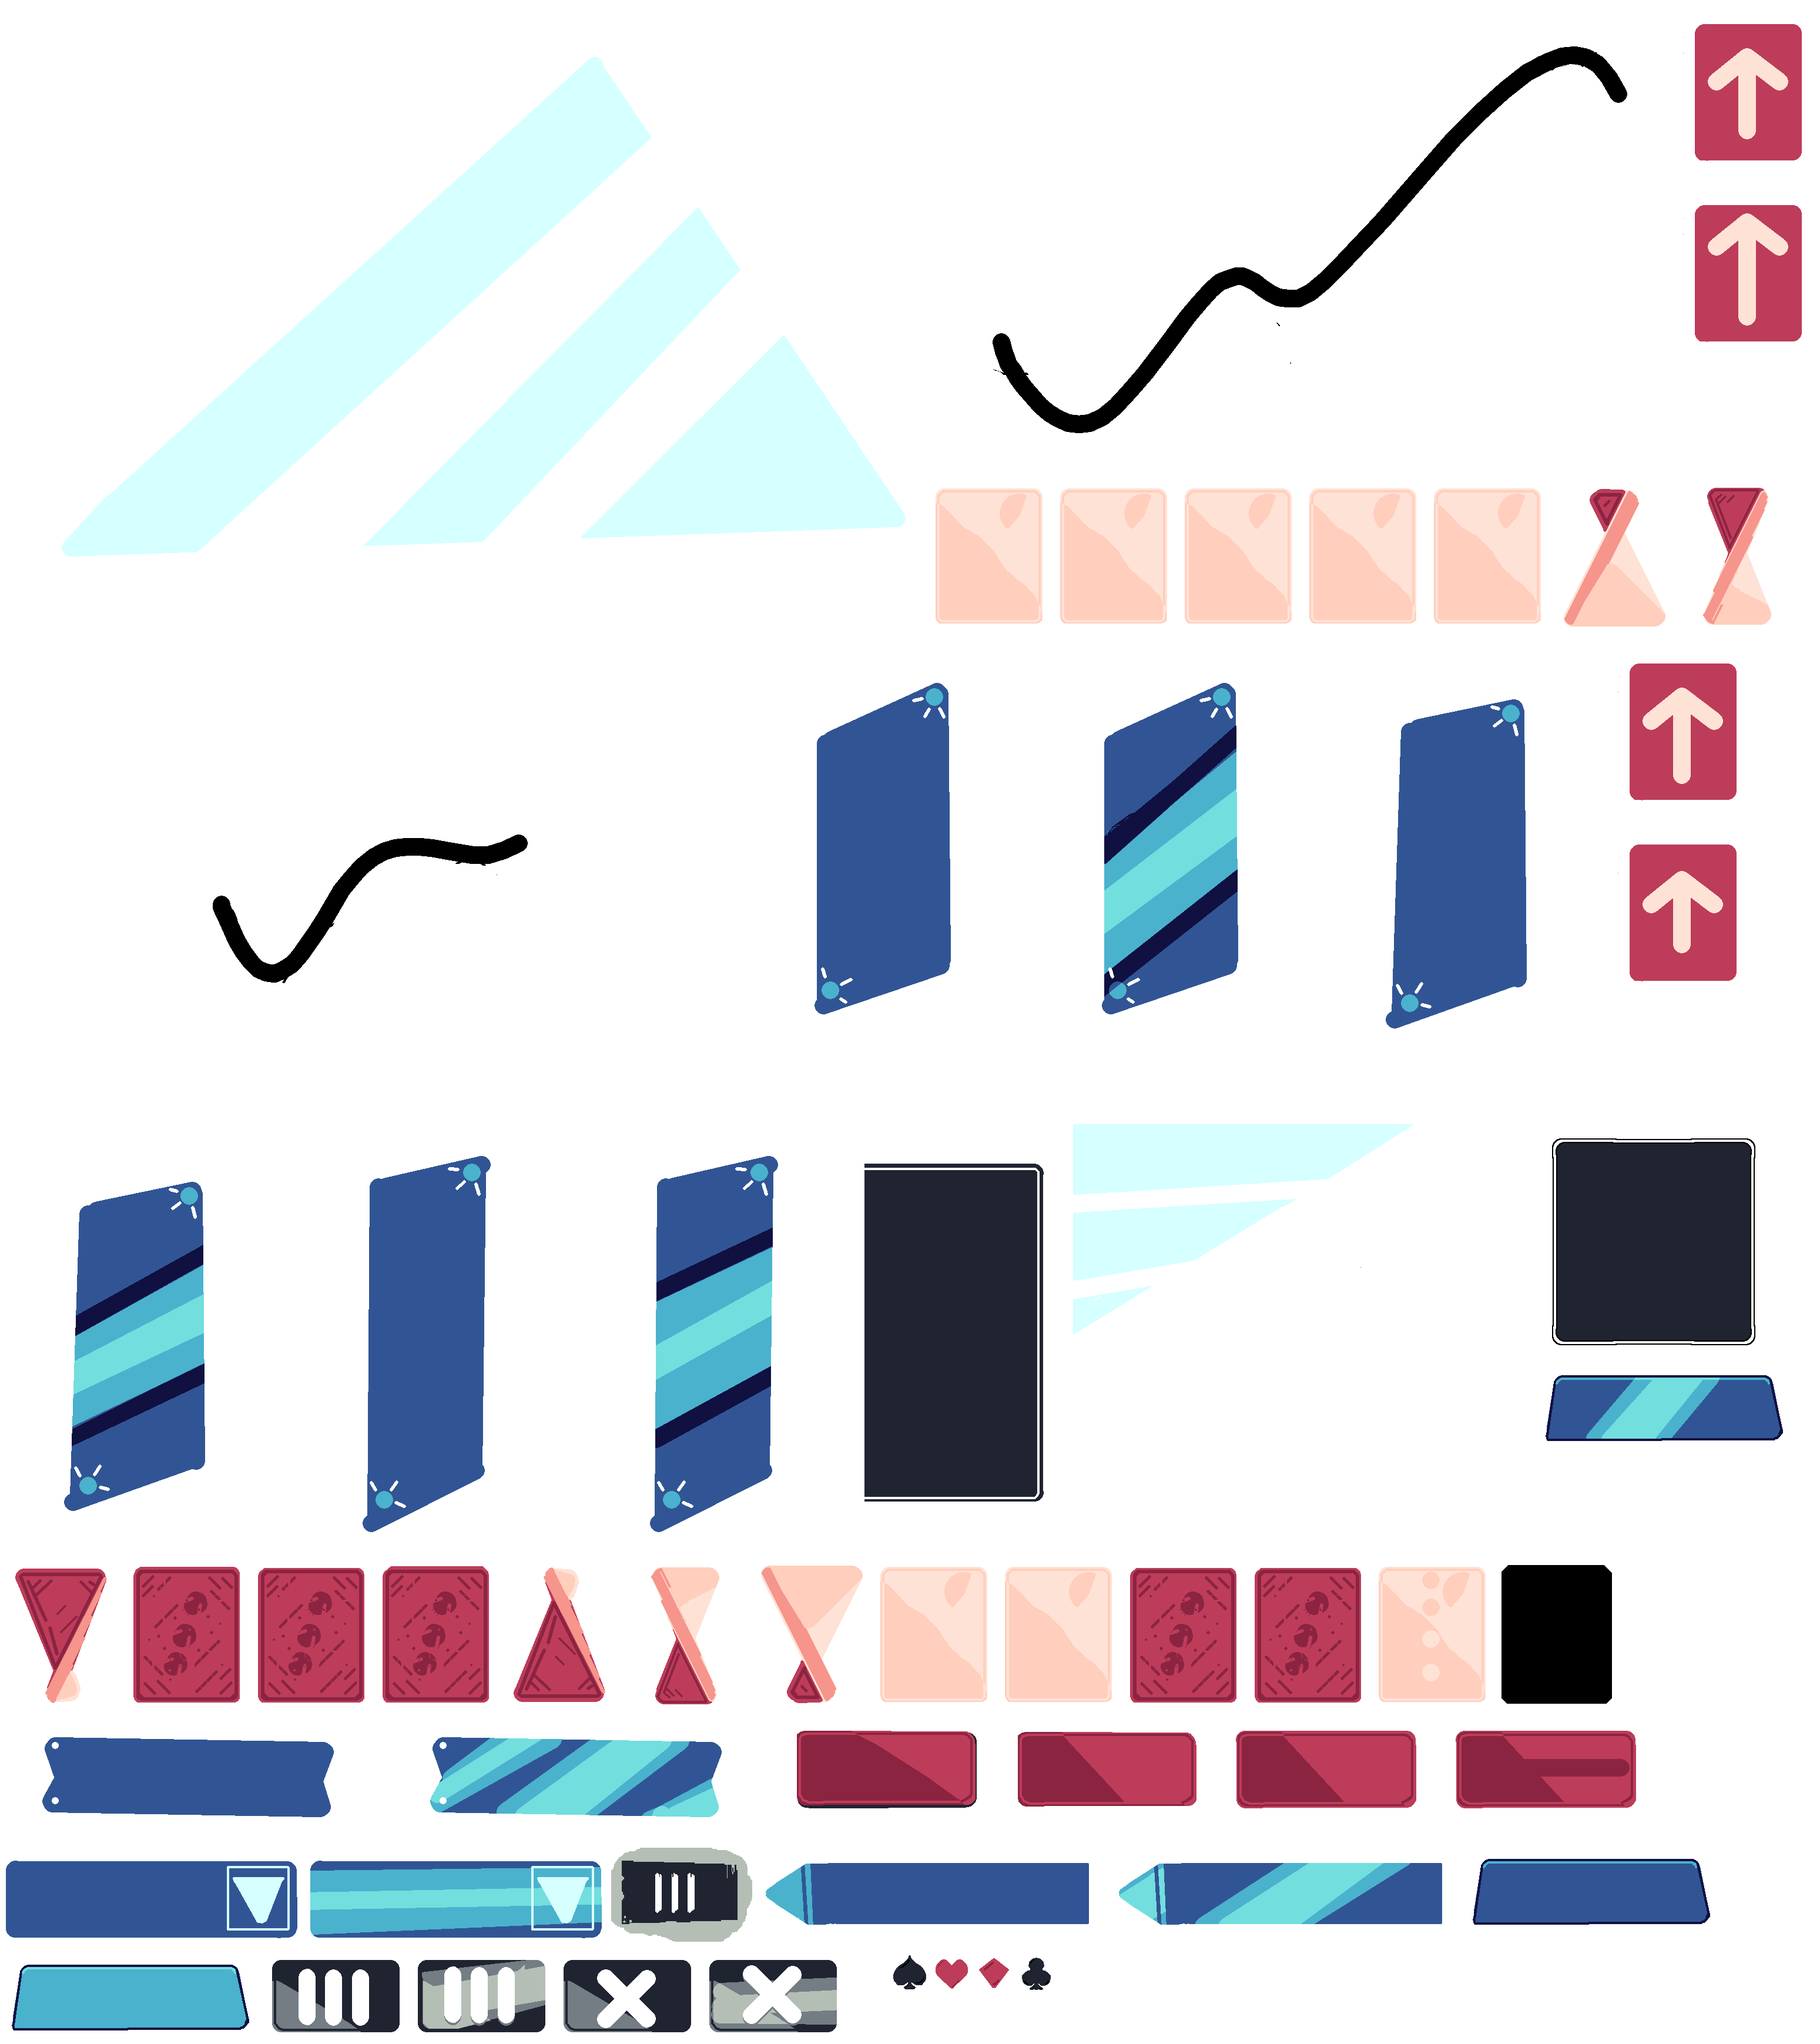
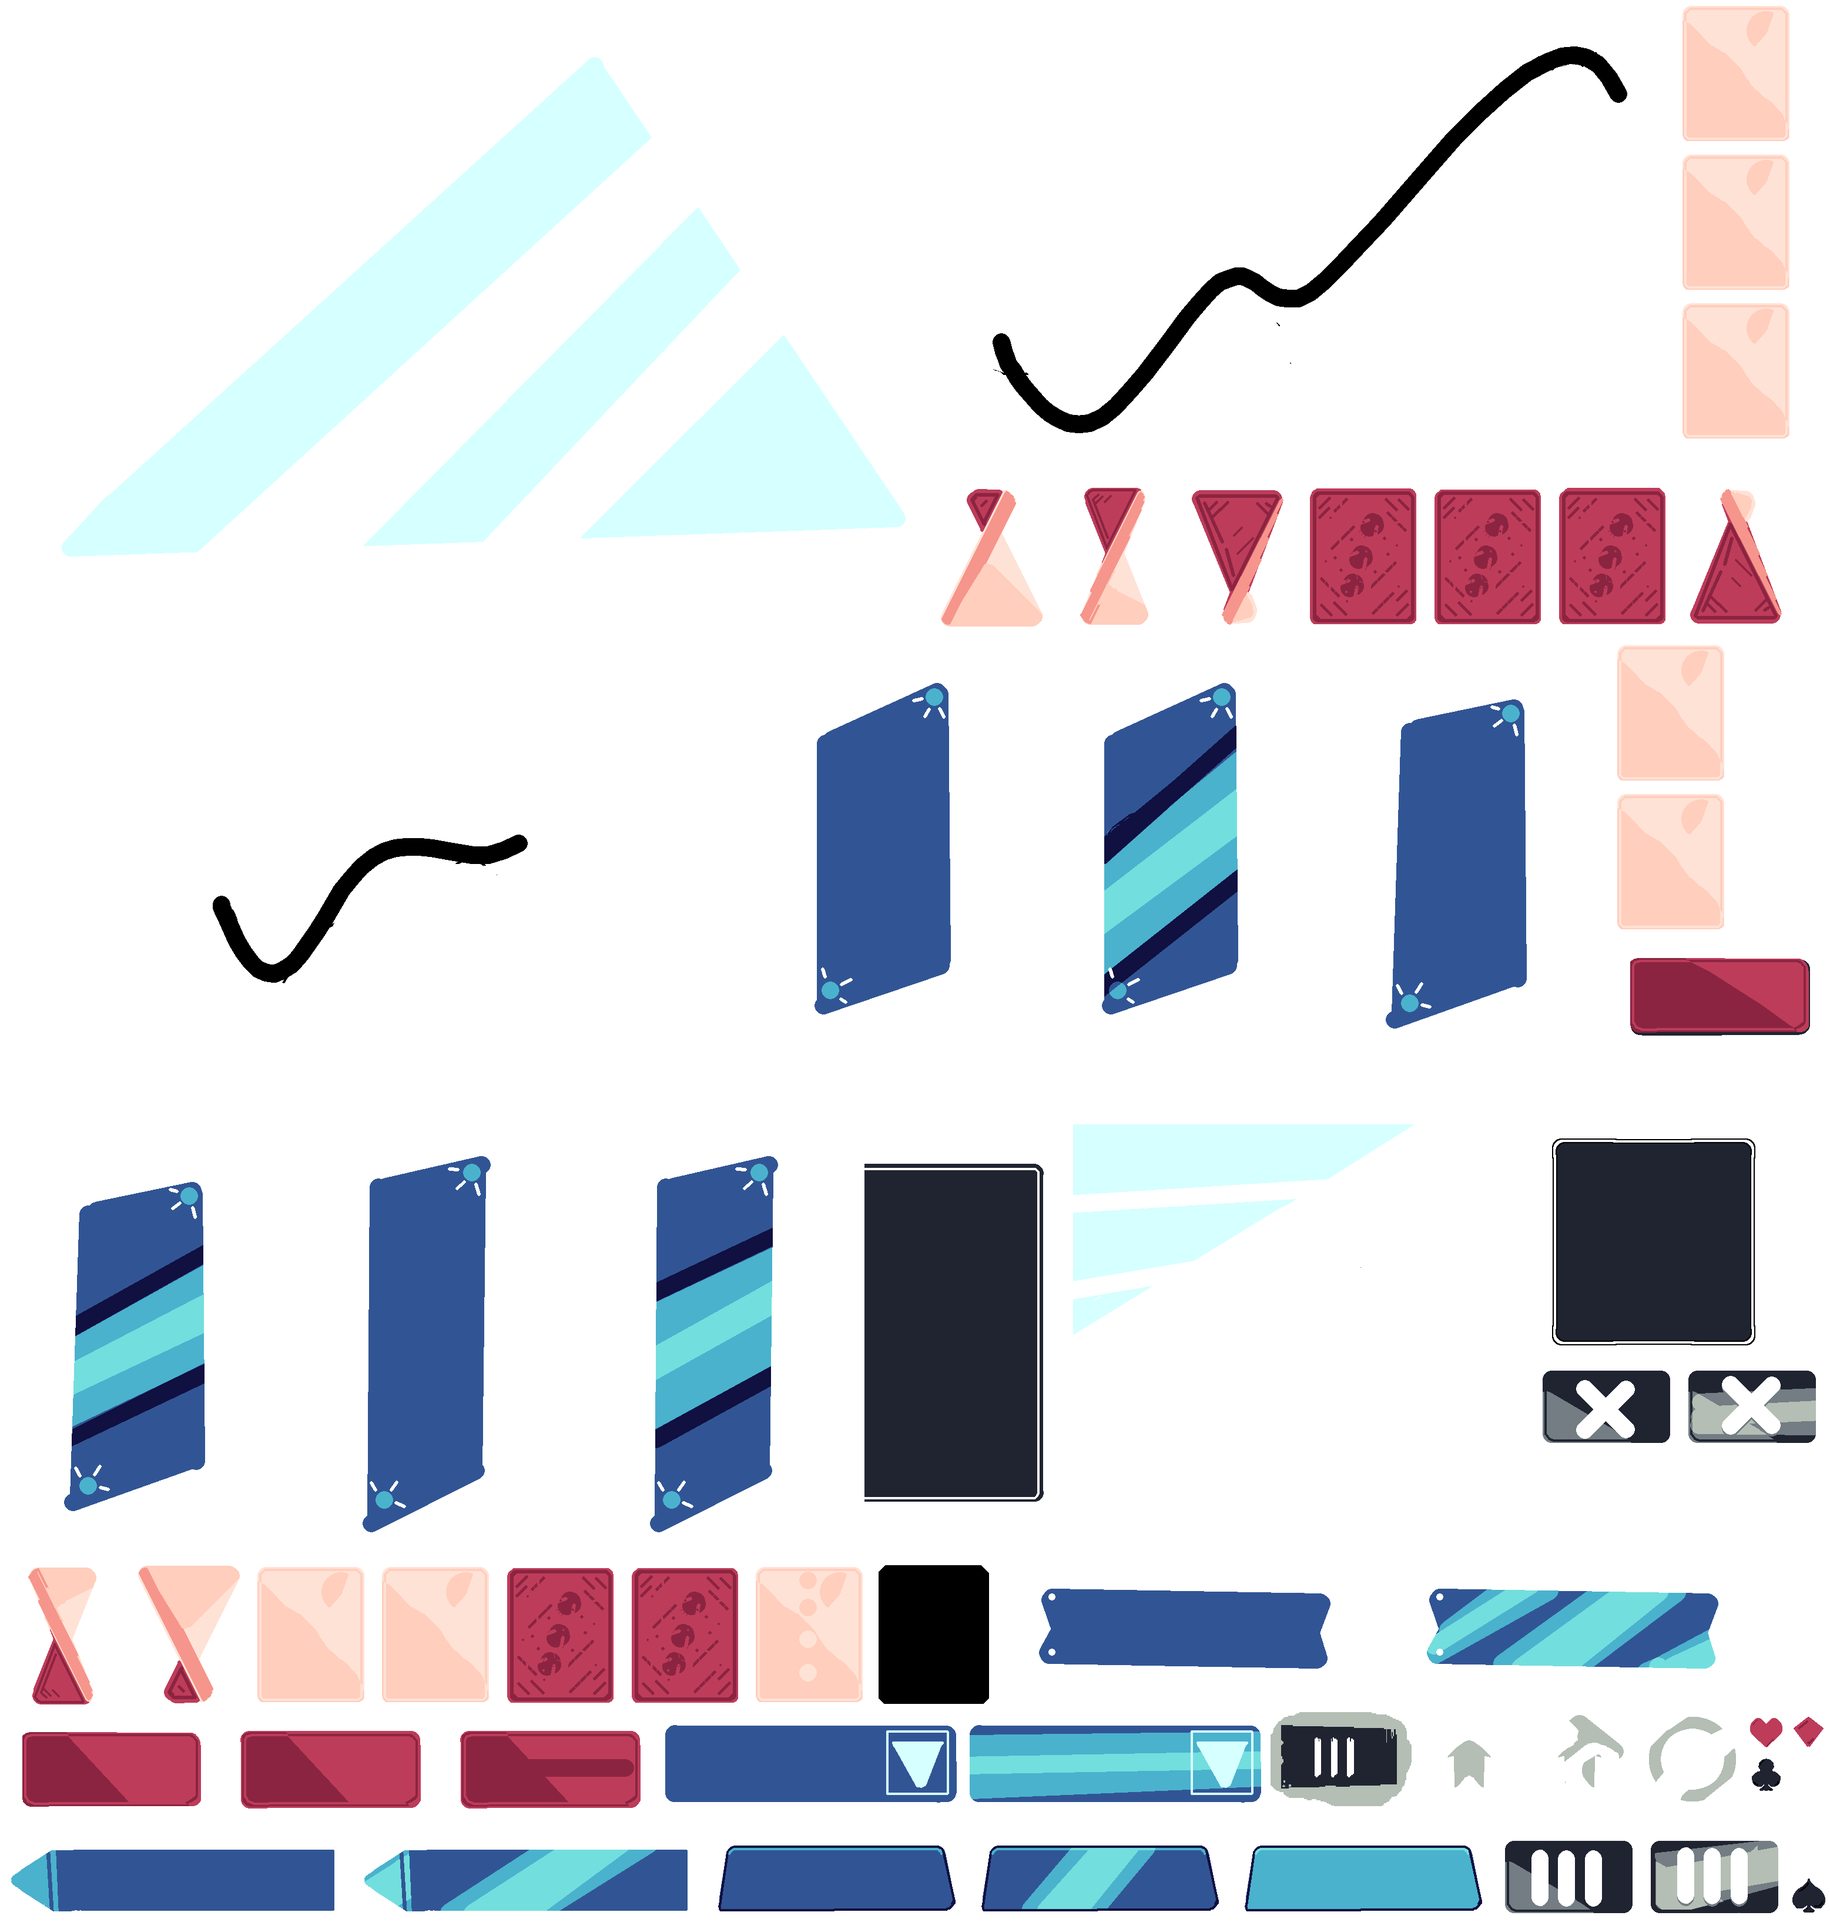
recycle view

diff --git a/src/solitaire_game.ts b/src/solitaire_game.ts
@@ -118,13 +118,35 @@ class RecycleView extends Play {
     return this._data as RecycleData
   }
 
+  disable() {
+    this.anim.play('disabled')
+  }
+
+  enable() {
+    this.anim.play('idle')
+  }
+
+  anim!: Anim
+
   _init() {
 
 
+    let anim = this.make(Anim, Vec2.make(0, 0), { name: 'recycle' })
+    this.anim = anim
 
     let self = this
     this.make(Clickable, Vec2.make(20, 20), {
       rect: Rect.make(0, 0, 140, 160),
+      on_hover() {
+        if (anim._animation !== 'disabled') {
+          anim.play('hover')
+        }
+      },
+      on_hover_end() {
+        if (anim._animation !== 'disabled') {
+          anim.play('idle')
+        }
+      },
       on_click() {
         self.data.on_recycle()
       }
@@ -375,6 +397,9 @@ export class SolitaireGame extends Play {
 
     let { dealer, stock, tableus } = this
 
+    this.recycle_view.visible = false
+    this.recycle_view.enable()
+
     let cards = [
       ...stock.free(),
       ...tableus.flatMap(_ => _.free())
@@ -399,6 +424,10 @@ export class SolitaireGame extends Play {
   _init_pov() {
 
     let { stock, tableus, cmd, pov } = this
+
+    if (pov.recycles_left === 0) {
+      this.recycle_view.disable()
+    }
 
     this.settings_status.settings = pov.settings
 
@@ -437,6 +466,9 @@ export class SolitaireGame extends Play {
 
   hit_stock(cards: Array<OCard>) {
     this.stock.hit(cards)
+    if (this.stock.can_recycle) {
+      this.recycle_view.visible = true
+    }
   }
 
 
@@ -446,7 +478,11 @@ export class SolitaireGame extends Play {
   cant_recycle() {
   }
 
-  recycle() {
+  recycle(left: number) {
+    if (left === 0) {
+      this.recycle_view.disable()
+    }
+    this.recycle_view.visible = false
     this.stock.recycle()
   }
 
@@ -503,6 +539,6 @@ export class SolitaireGame extends Play {
 
 
   game_started() {
-    console.log(this.solitaire_data.status)
+    //console.log(this.solitaire_data.status)
   }
 }

diff --git a/src/solitaire_back.ts b/src/solitaire_back.ts
@@ -206,7 +206,7 @@ export class Recycle extends Command {
 
   resolve() {
     this.pov.recycle()
-    this.game.recycle()
+    this.game.recycle(this.pov.max_recycles - this.pov.nb_recycles)
   }
 }
 
